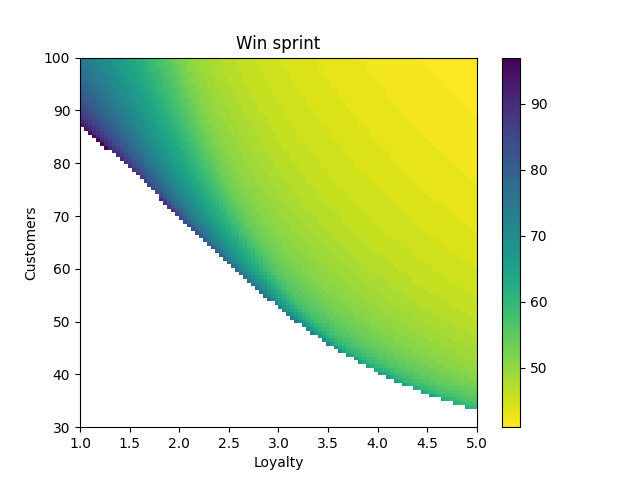
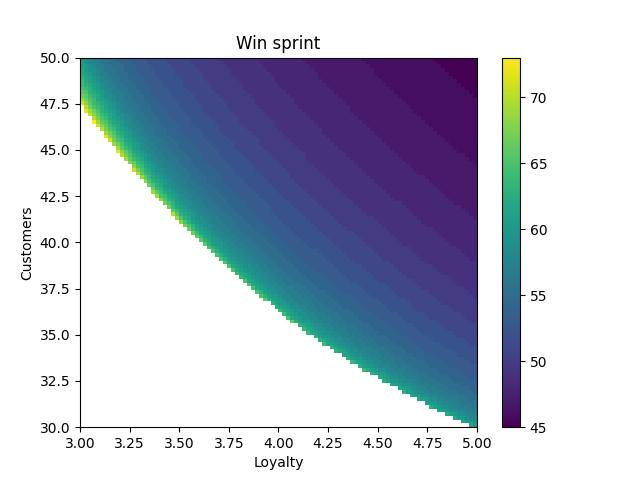
Поправил фазовую диаграмму с учетом игры агента

diff --git a/web_interaction/web_controller.py b/web_interaction/web_controller.py
@@ -3,7 +3,6 @@ import logging
 import os
 import time
 
-from operator import itemgetter
 from selenium import webdriver
 from selenium.webdriver import ActionChains
 from selenium.webdriver.common.by import By
@@ -257,7 +256,8 @@ class WebController:
         self.logger.info(f"Found at positions {positions}")
 
         ordered_cards = zip(cards, positions)
-        for card, position in sorted(ordered_cards, key=itemgetter(1), reverse=True):
+        key = lambda x:  tuple(reversed(x[1]))
+        for card, position in sorted(ordered_cards, key=key, reverse=True):
             self.click_on_element(driver, iframe, *position)
             self.logger.info(f"Clicked on card {card} as position {position}")
             self.game_coordinator.remove_backlog_card_from_backlog(card.info)

diff --git a/experiments/empty-sprint-win-phase-diagram/phase_diagram.py b/experiments/empty-sprint-win-phase-diagram/phase_diagram.py
@@ -34,7 +34,7 @@ def get_win_sprint_from_initial_state(loyalty, customers):
     game = ProductOwnerGame()
     game = prepare_game(game)
 
-    game.context.set_money(200_000)
+    game.context.set_money(300_000)
 
     game.context.set_loyalty(loyalty)
     game.context.customers = customers
@@ -43,8 +43,8 @@ def get_win_sprint_from_initial_state(loyalty, customers):
 
 
 def main():
-    loyalty_range = np.linspace(1.0, 5.0, 100)
-    customers_range = np.linspace(30, 100, 100)
+    loyalty_range = np.linspace(3.0, 5.0, 100)
+    customers_range = np.linspace(30, 50, 100)
 
     phase_diagram = np.zeros((len(loyalty_range), len(customers_range)))
 
